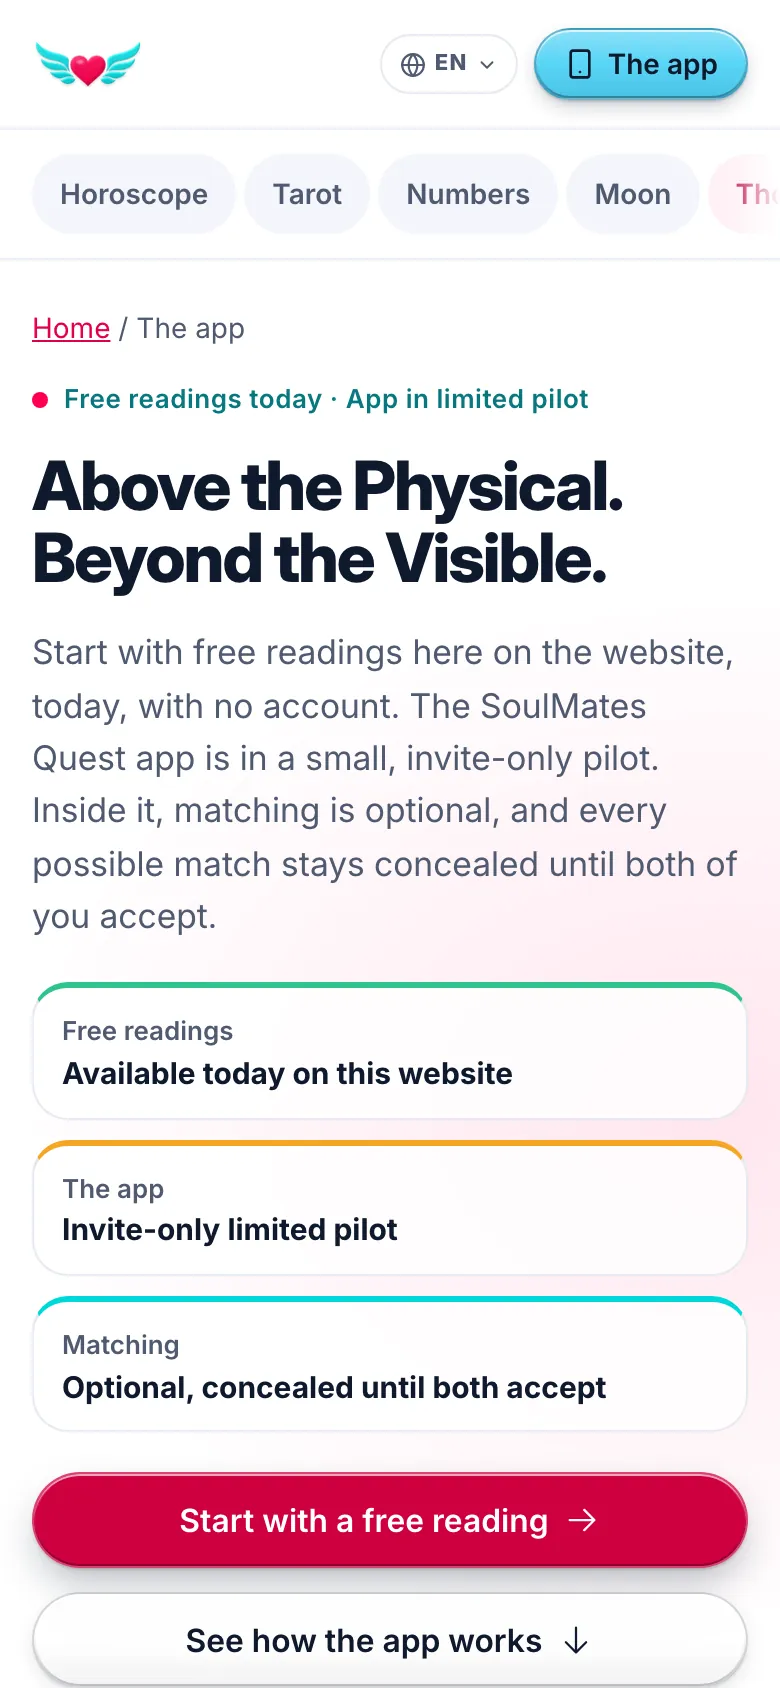
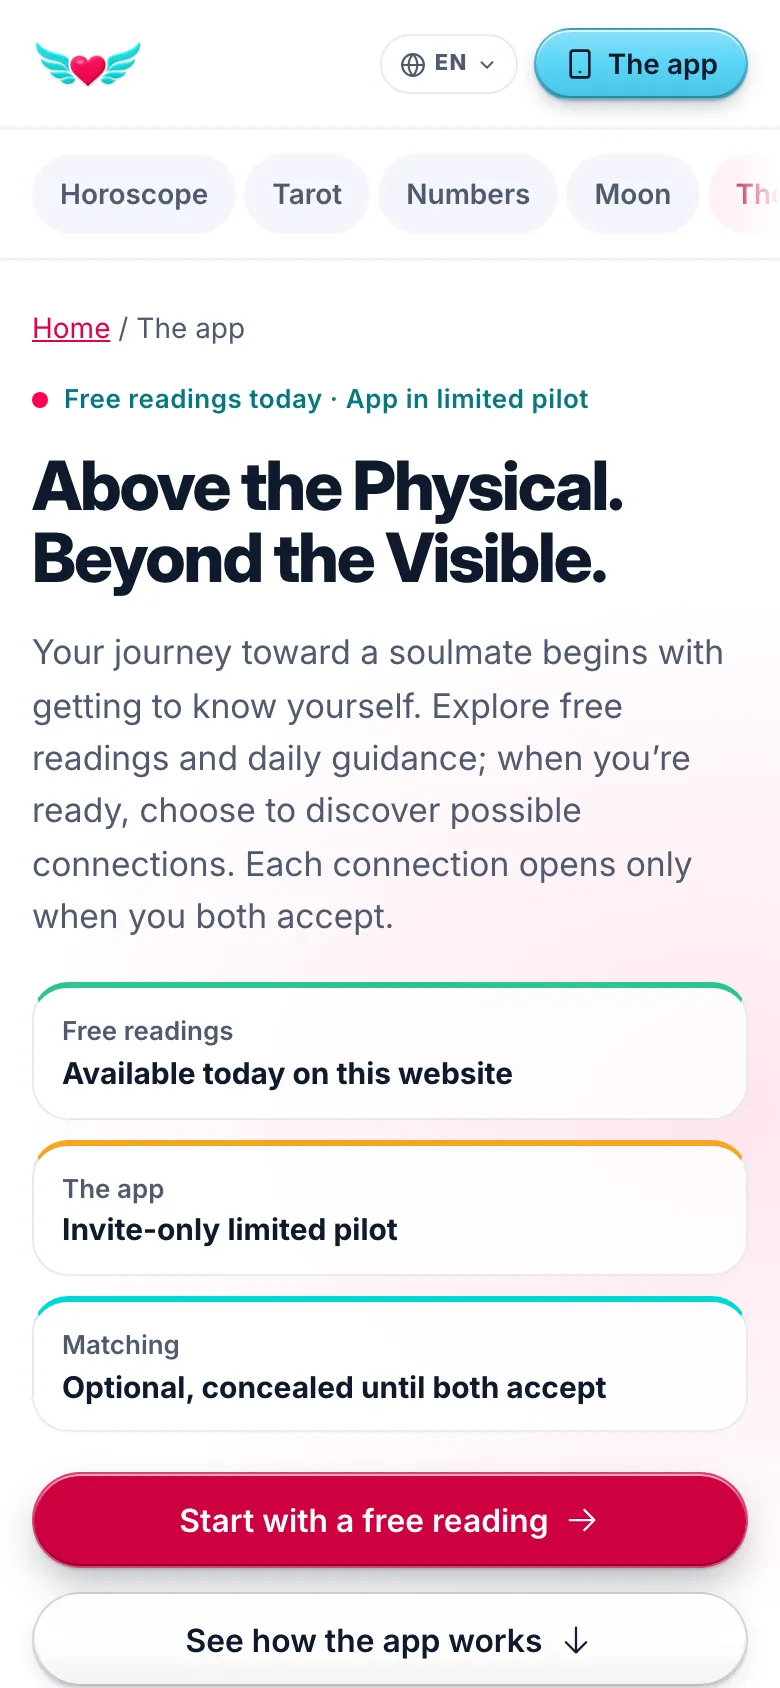
docs(verification): /app captures refreshed after 319024b

Changed region(s): [[0.0308, 0.3697, 0.9231, 0.5545], [0.9231, 0.4929, 0.9538, 0.5237]]

diff --git a/docs/verification/2026-10-19-app-page/index.html b/docs/verification/2026-10-19-app-page/index.html
@@ -3,7 +3,7 @@
 body{margin:0;background:var(--bg);color:var(--fg);font:15px/1.5 system-ui,-apple-system,sans-serif}main{max-width:1400px;margin:0 auto;padding:24px 16px 64px}h1{font-size:26px;margin:0 0 4px}h2{margin:40px 0 8px;font-size:20px}p,li{color:var(--muted);max-width:90ch}
 .grid{display:grid;gap:14px;margin-top:14px}.g2{grid-template-columns:repeat(auto-fit,minmax(min(100%,520px),1fr))}.g4{grid-template-columns:repeat(auto-fit,minmax(min(100%,220px),1fr))}
 figure{margin:0;background:var(--card);border:1px solid var(--line);border-radius:12px;padding:8px}figure img{display:block;width:100%;height:auto;border-radius:6px}figcaption{font-size:13px;color:var(--muted);padding-top:6px}table{border-collapse:collapse;font-size:14px}td,th{border-bottom:1px solid var(--line);padding:6px 12px;text-align:left}</style></head><body><main>
-<h1>/en/app and /bg/app rebuild: review captures</h1><p>19 Oct 2026 · production build served locally (<code>next start</code>, port 3217), not deployed. Chrome via Playwright, reduced motion on. Themes forced with <code>data-theme</code> (the site picks light or dark by local time). Click any image for full size. Full-resolution PNGs: <code>~/soulmates-backups/website-20261019-app-page/screenshots-png/</code>.</p>
+<h1>/en/app and /bg/app rebuild: review captures</h1><p>19 Oct 2026, refreshed after 319024b (quest lead, journey title, compatibility and photo answers) · production build served locally (<code>next start</code>, port 3217), not deployed. Chrome via Playwright, reduced motion on. Themes forced with <code>data-theme</code> (the site picks light or dark by local time). Click any image for full size. Full-resolution PNGs: <code>~/soulmates-backups/website-20261019-app-page/screenshots-png/</code>.</p>
 <h2>Measured checks (all 8 page variants)</h2><table><tr><th>Check</th><th>Result</th></tr>
 <tr><td>Horizontal overflow (1440, 768, 390, 320 px)</td><td>0 px</td></tr><tr><td>Cumulative layout shift</td><td>0</td></tr>
 <tr><td>Console errors</td><td>none except <code>/_vercel/insights/script.js</code> (exists only on Vercel)</td></tr>
